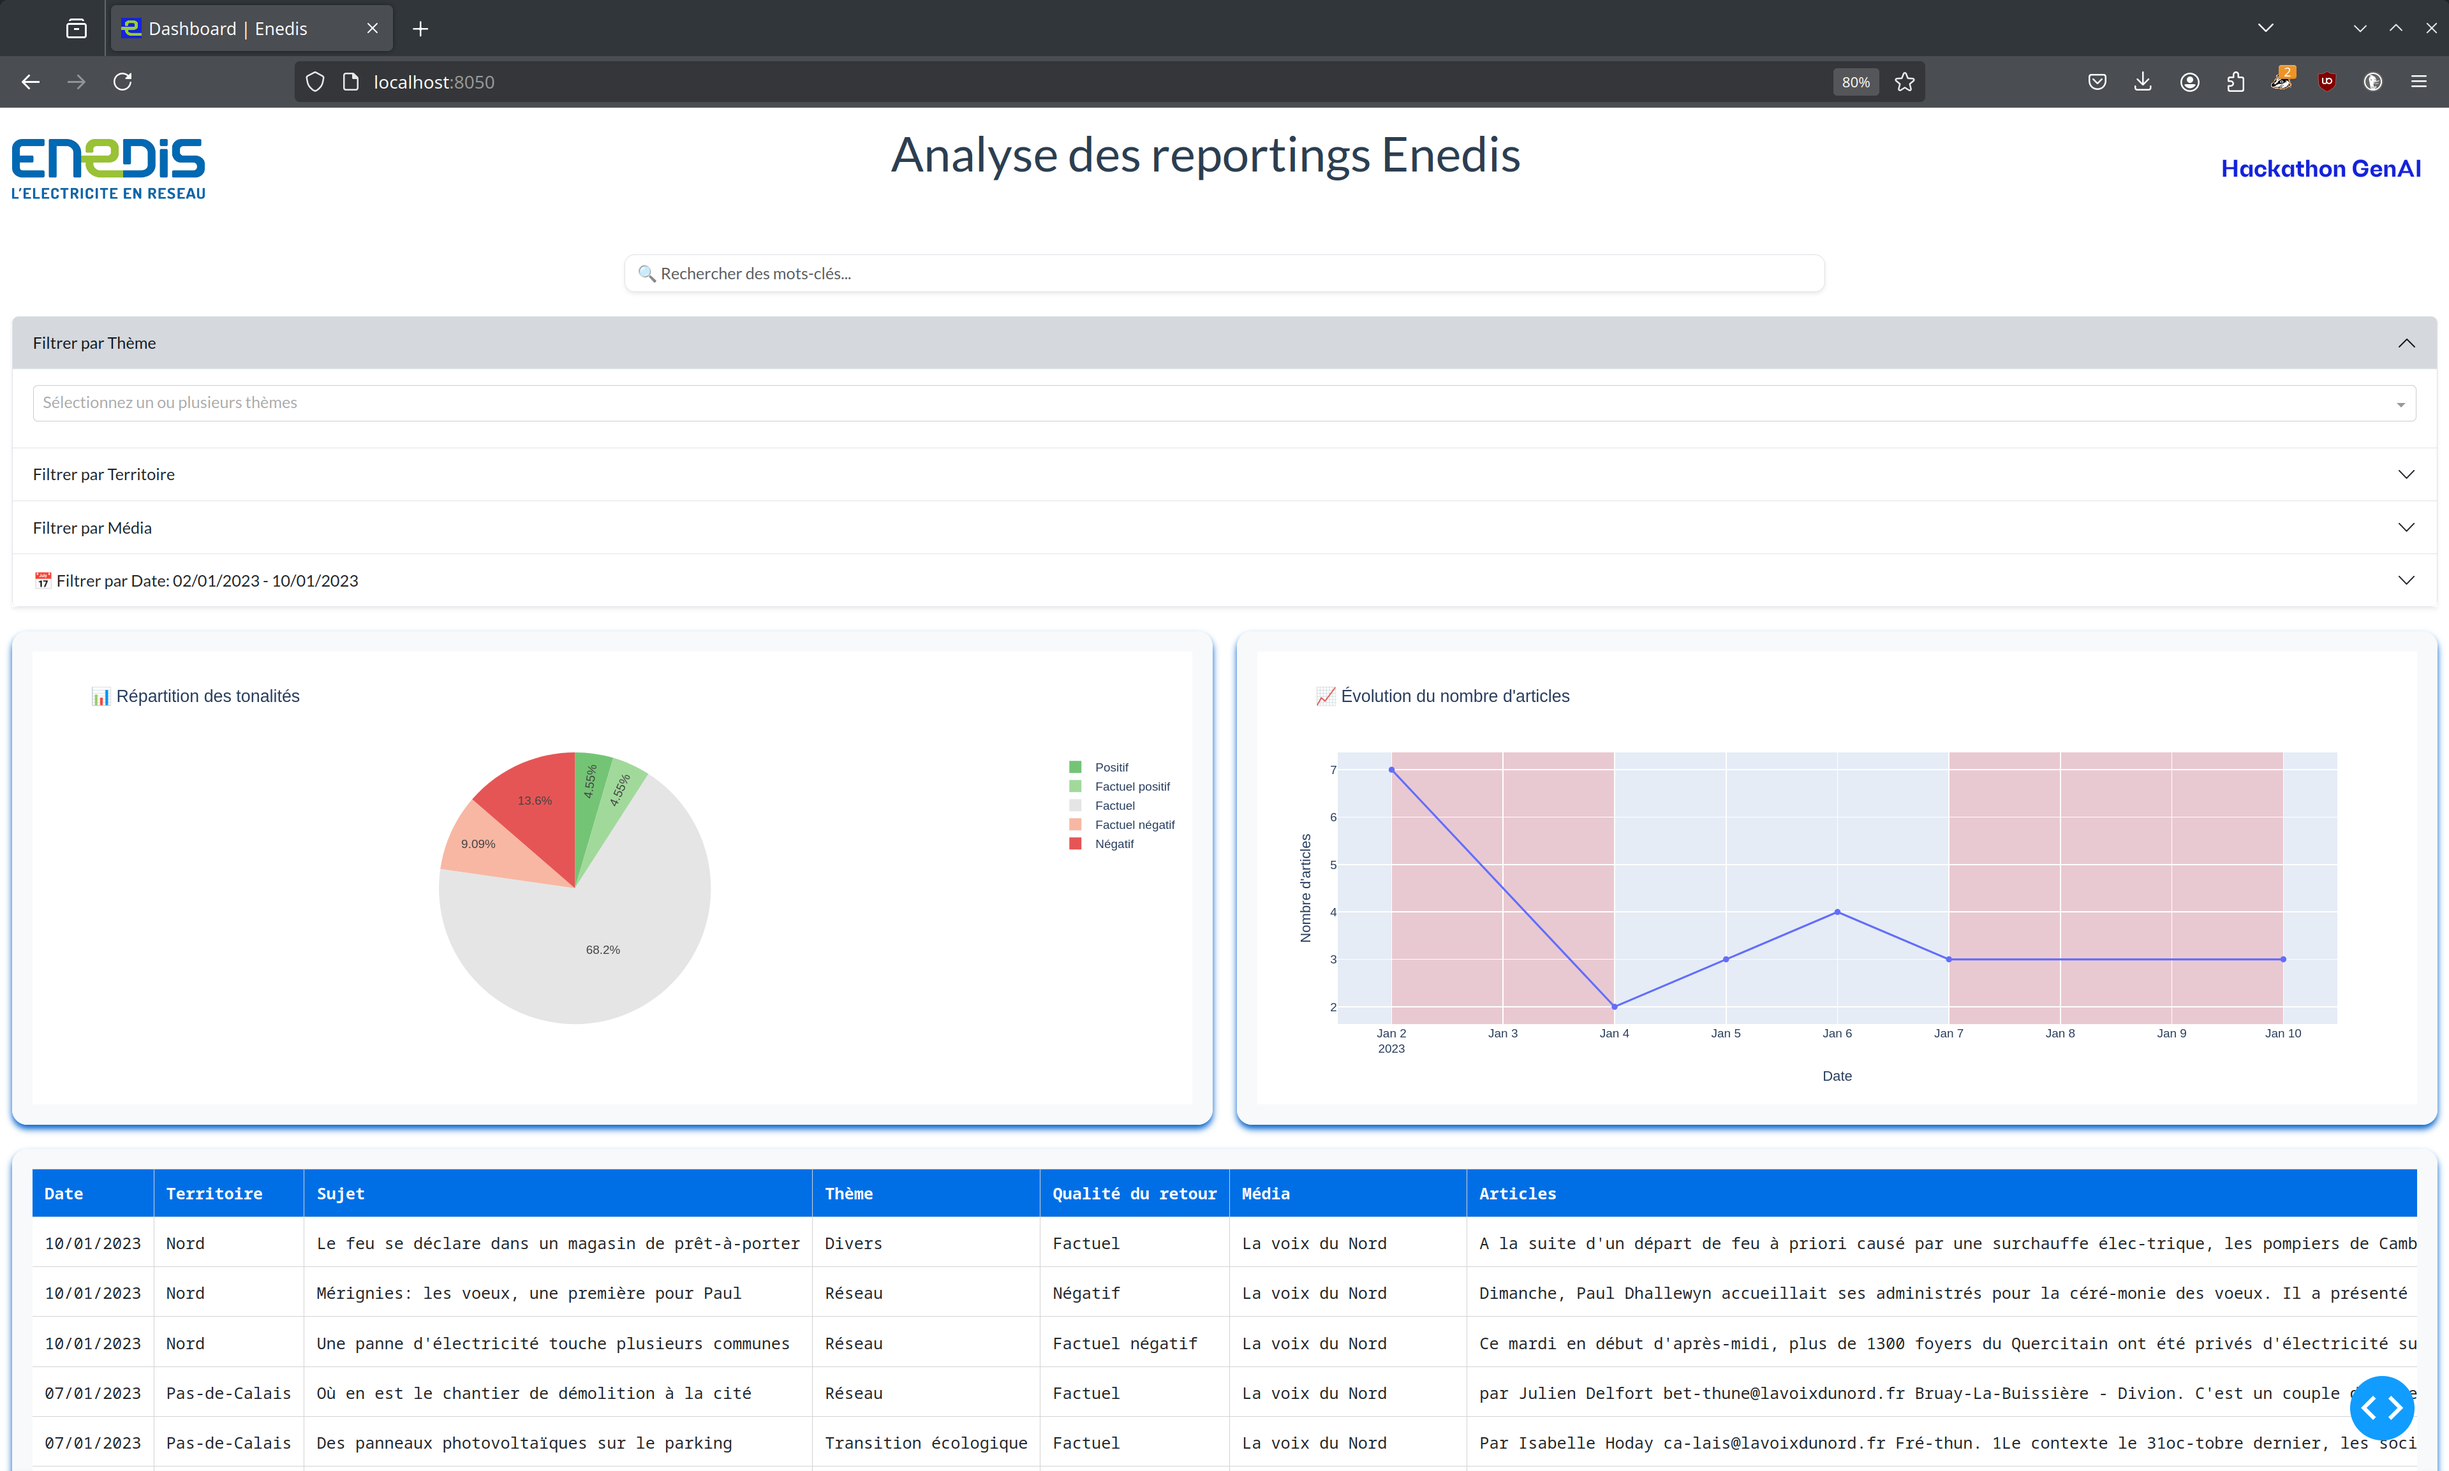
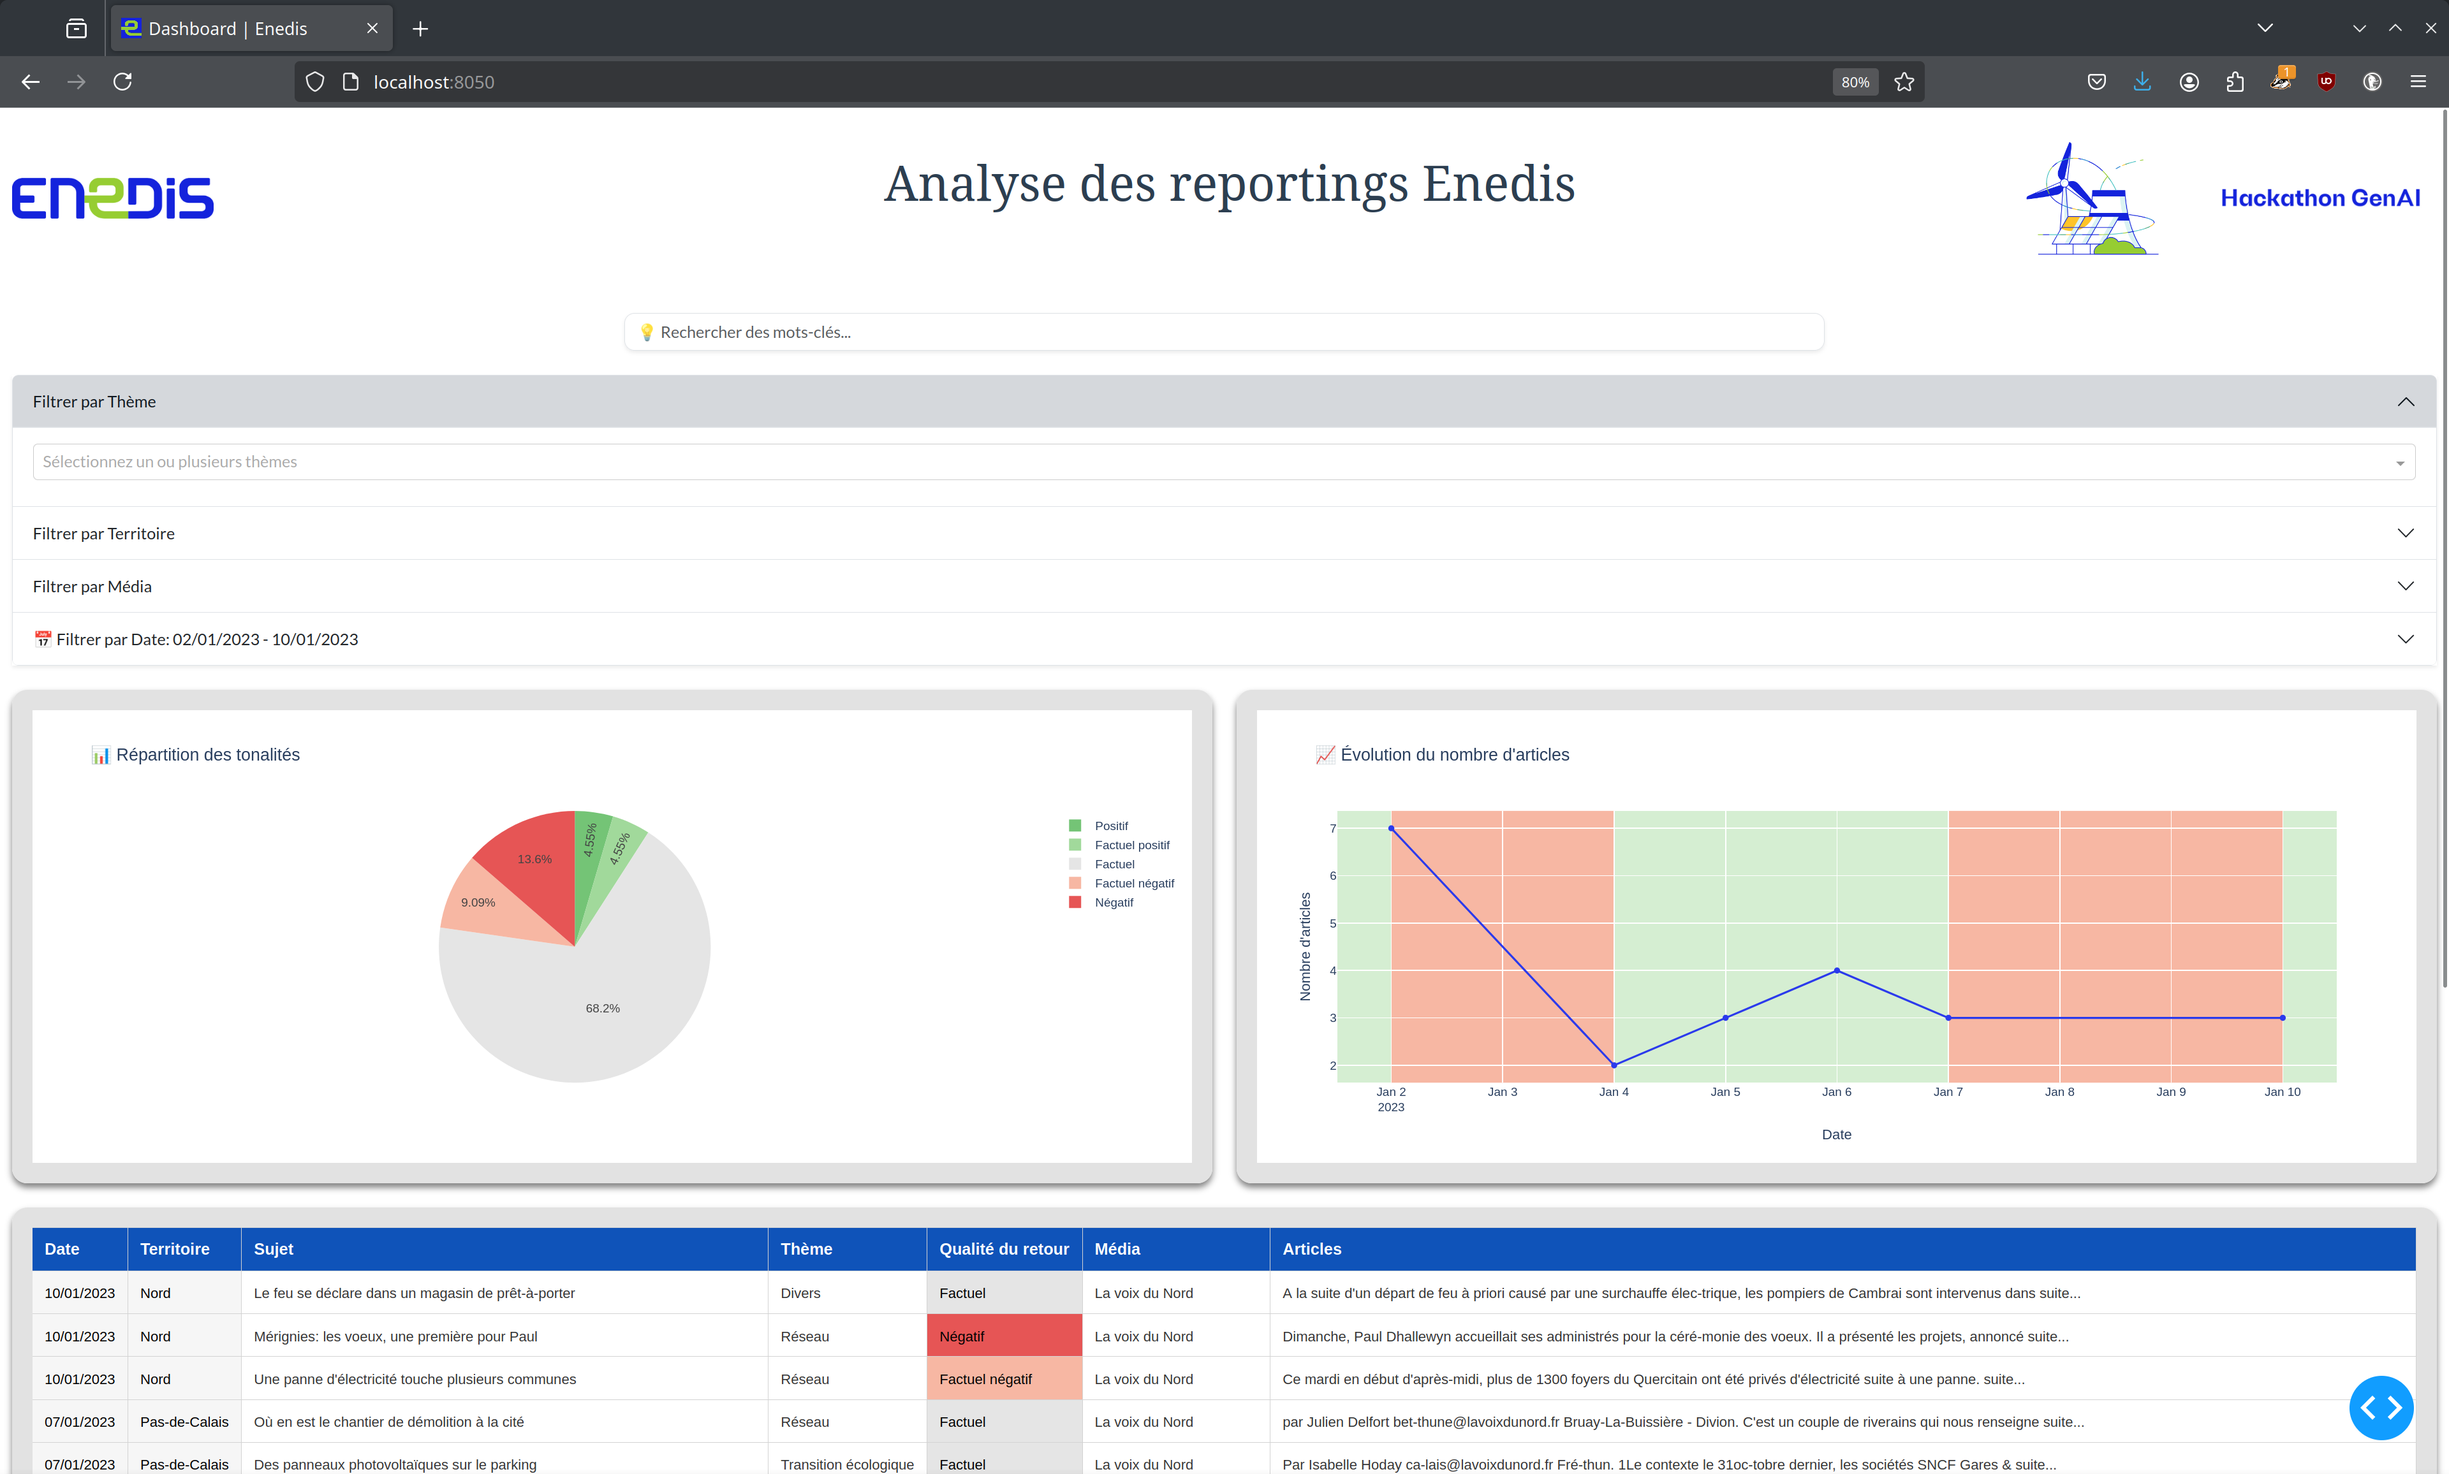
design refactoring

diff --git a/data-viz-app/app.py b/data-viz-app/app.py
@@ -13,27 +13,16 @@ sys.path.append(PROJECT_PATH)
 from utils.load_and_clean_df import load_data, clean_data
 from utils.dash_display import create_accordion_item, filter_df, summary_filter, get_shapes_critical_periods
 
+import assets.css_styles as myCSS
+
+
 ############################# CONFIG #############################
 DASH_APP_URL = 'localhost'
 DASH_APP_PORT = 8050
 
 THEME = dbc.themes.FLATLY
-
-CUSTOM_STYLE = {
-    'backgroundColor': '#f8f9fa',
-    'padding': '20px',
-    'borderRadius': '15px',
-    'boxShadow': '0px 4px 6px #0062cc'
-}
-
-PIE_CHART_COLORS = {
-    "Positif": "#74c476",
-    "Factuel positif": "#a1d99b",
-    "Factuel": "#e5e5e5",
-    "Factuel négatif": "#f7b7a3",
-    "Négatif": "#e65555"
-}
 ##################################################################
+
 
 #######################
 ## I- LOAD CSV DATA ##
@@ -51,8 +40,9 @@ dash_app._favicon = ("enedis-favicon.ico")
 dash_app.layout = dbc.Container([
     # Header
     dbc.Row([
-        dbc.Col(html.Img(src='assets/enedis-logo.png', height='60px'), width='auto', className='d-flex align-items-center justify-content-start'),
-        dbc.Col(html.H1("Analyse des reportings Enedis", className='text-center mb-5 mt-3 text-primary'), width=True, className='d-flex justify-content-center'),
+        dbc.Col(html.Img(src='assets/enedis-logo.svg', height='60px'), width='auto', className='d-flex align-items-center justify-content-start'),
+        dbc.Col(html.H1("Analyse des reportings Enedis", className='text-center mb-5 mt-3 text-primary'), style=myCSS.title, width=True, className='d-flex justify-content-center'),
+        dbc.Col(html.Img(src='assets/enedis-eolienne.svg', height='180px'), width='auto', className='d-flex align-items-center justify-content-start'),
         dbc.Col(html.Img(src='assets/hackathon-genIA-logo.png', height='60px'), width='auto', className='d-flex align-items-center justify-content-start')
     ], align='center', className='mb-4'),
 
@@ -61,10 +51,10 @@ dash_app.layout = dbc.Container([
         dbc.Col(dcc.Input(
             id='keywords-search',
             type='text',
-            placeholder="🔍 Rechercher des mots-clés...",
+            placeholder="💡 Rechercher des mots-clés...",
             debounce=True,
             className='form-control shadow-sm',
-            style={'width': '100%', 'borderRadius': '10px'}
+            style=myCSS.keywords_search
         ), width=6)
     ], justify='center', className='mb-4'),
 
@@ -81,30 +71,30 @@ dash_app.layout = dbc.Container([
                 end_date=df['Date'].max(),
                 display_format='DD/MM/YYYY',
                 className='form-control',
-                style={'borderRadius': '10px'}
+                style=myCSS.date_picker_range
             ),
         ], title="📅 Filtrer par Date", id='date-title')
     ], className='mb-4 shadow-sm'),
 
     # Data Visualization
     dbc.Row([
-        dbc.Col(dcc.Graph(id='tone-pie-chart', style=CUSTOM_STYLE), width=6),
-        dbc.Col(dcc.Graph(id='articles-time-series', style=CUSTOM_STYLE), width=6)
+        dbc.Col(dcc.Graph(id='tone-pie-chart', style=myCSS.container), width=6),
+        dbc.Col(dcc.Graph(id='articles-time-series', style=myCSS.container), width=6)
     ], className='mb-4'),
 
-    # Data Table
     html.Div([
-        dash_table.DataTable(
-            id='data-table',
-            columns=[{"name": col, "id": col} for col in df.columns],
-            page_size=10,
-            style_table={'overflowX': 'auto'},
-            style_cell={'textAlign': 'left', 'padding': '12px'},
-            style_header={'fontWeight': 'bold', 'backgroundColor': '#006fe6', 'color': 'white', 'borderRadius': '10px'},
-            row_selectable=False,
-            cell_selectable=False,
-        )
-    ], style=CUSTOM_STYLE)
+    dash_table.DataTable(
+        id='data-table',
+        columns=[{"name": col, "id": col} for col in df.columns],
+        page_size=myCSS.data_table['page_size'],
+        style_table=myCSS.data_table['style_table'],
+        style_header=myCSS.data_table['style_header'],
+        style_cell=myCSS.data_table['style_cell'],
+        row_selectable=False,
+        cell_selectable=False,
+        style_data_conditional=myCSS.data_table['style_data_conditional'],
+    )
+], style=myCSS.container)
 
 ], fluid=True)
 
@@ -150,8 +140,9 @@ def update_visualizations(selected_themes, selected_territories, selected_medias
         title="📈 Évolution du nombre d'articles",
         markers=True
     )
+    time_series.update_traces(line=myCSS.time_series['line'])
     critical_shapes = get_shapes_critical_periods(filtered_df, critical_values=['Négatif', 'Factuel négatif'], window='3D', threshold=0.1)
-    time_series.update_layout(shapes=critical_shapes)
+    time_series.update_layout(plot_bgcolor=myCSS.time_series['plot_bgcolor'], paper_bgcolor=myCSS.time_series['paper_bgcolor'], shapes=critical_shapes)
 
     # pie chart
     pie_chart = px.pie(
@@ -159,8 +150,8 @@ def update_visualizations(selected_themes, selected_territories, selected_medias
         names='Qualité du retour',
         title="📊 Répartition des tonalités",
         color='Qualité du retour',
-        color_discrete_map=PIE_CHART_COLORS,
-        category_orders={"Qualité du retour": list(PIE_CHART_COLORS.keys())}
+        color_discrete_map=myCSS.pie_chart_colors,
+        category_orders={"Qualité du retour": list(myCSS.pie_chart_colors.keys())}
     )
 
     # table

diff --git a/data-viz-app/assets/css_styles.py b/data-viz-app/assets/css_styles.py
@@ -1,0 +1,95 @@
+import dash_bootstrap_components as dbc
+
+
+###### Global ######
+
+container = {
+    'backgroundColor': '#e2e2e2',
+    'padding': '20px',
+    'borderRadius': '15px',
+    'boxShadow': '0px 4px 6px #808080'
+}
+
+
+###### Header ######
+
+title = {
+    'fontFamily': 'Aldrich', 
+    'fontSize': '40px', 
+    'color': '#003366', 
+    'fontWeight': 'bold', 
+    'marginLeft': '10%'
+}
+
+
+###### Filters Section ######
+
+keywords_search = {
+    'width': '100%', 
+    'borderRadius': '10px'
+}
+
+date_picker_range = {
+    'borderRadius': '10px'
+}
+
+
+###### Data Visualization ######
+
+pie_chart_colors = {
+    "Positif": "#74c476",
+    "Factuel positif": "#a1d99b",
+    "Factuel": "#e5e5e5",
+    "Factuel négatif": "#f7b7a3",
+    "Négatif": "#e65555"
+}
+
+time_series = {
+    'line': {
+        'color': '#2b3aec',
+        'width': 2
+    },
+    'plot_bgcolor': '#d5eed2',
+    'paper_bgcolor': 'white'
+}
+
+data_table = {
+    'page_size': 20,
+
+    'style_table': {
+        'overflowX': 'auto'
+    },
+
+    'style_header': {
+        'fontWeight': 'bold', 
+        'backgroundColor': '#0f53b9', 
+        'color': 'white', 
+        'borderRadius': '10px', 
+        'fontFamily': 'Arial', 
+        'fontSize': '16px'
+    },
+
+    'style_cell': {
+        'textAlign': 'left', 
+        'padding': '12px', 
+        'fontFamily': 'Arial', 
+        'fontSize': '14px', 
+        'color': '#333'},
+
+    'style_data_conditional': [
+        { # colors according to the Pie Chart
+            'if': {
+                'column_id': 'Qualité du retour',
+                'filter_query': f'{{Qualité du retour}} = "{key}"'
+            },
+            'backgroundColor': color,  
+            'color': 'black', 
+        }
+        for key, color in pie_chart_colors.items()
+    ] + \
+    [ # colors for less important columns 
+        {'if': {'column_id': 'Date'}, 'backgroundColor': '#f6f6f6', 'color': 'black'}, 
+        {'if': {'column_id': 'Territoire'}, 'backgroundColor': '#f6f6f6', 'color': 'black'}
+    ],
+
+}

diff --git a/data-viz-app/utils/dash_display.py b/data-viz-app/utils/dash_display.py
@@ -72,8 +72,7 @@ def create_red_rectangle_shape(start, end):
         'x1': end,
         'y0': 0,
         'y1': 1,
-        'fillcolor': 'rgba(255, 0, 0, 0.3)',
-        'opacity': 0.5,
+        'fillcolor': '#f7b7a3',
         'layer': 'below',
         'line_width': 0,
     }
